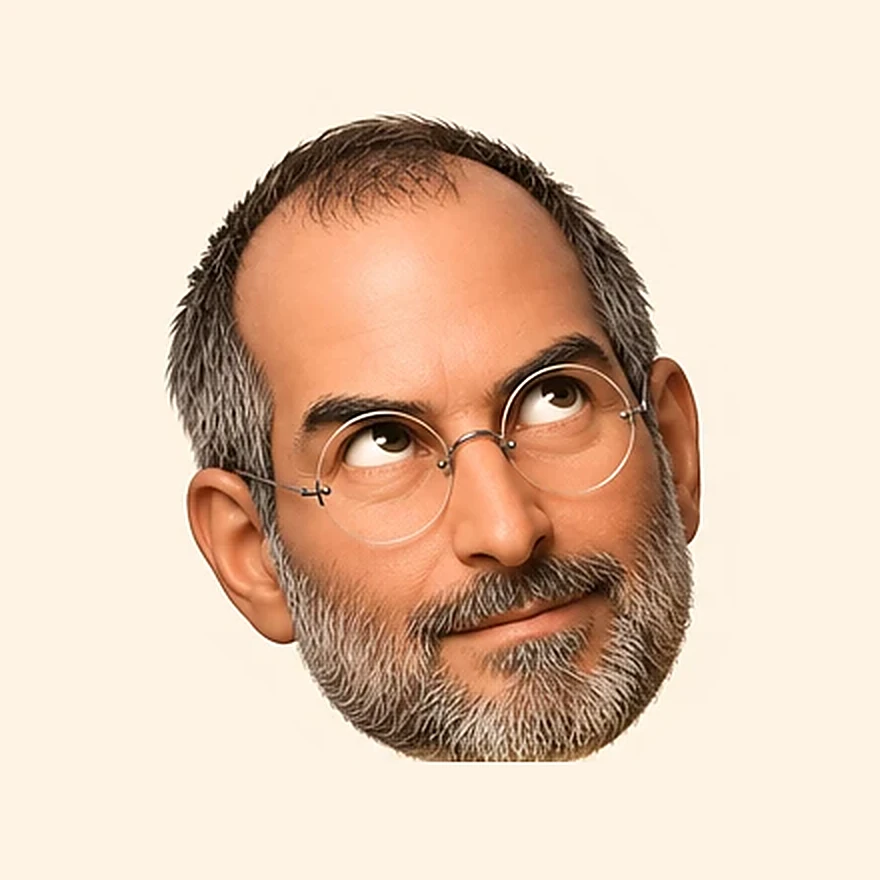
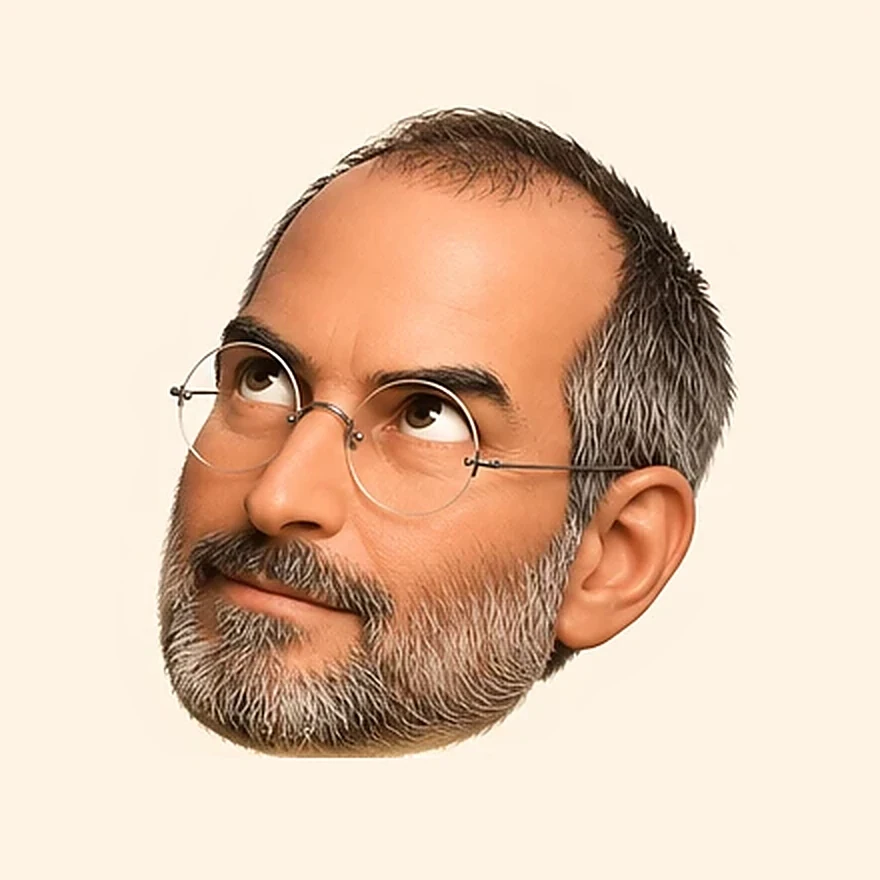
Fix up-left gaze frame by mirroring up-right
The reference sheet's 'Up Left' cell actually looks up and to the right, so
the cursor in the top-left corner made the head look the wrong way.

Claude-Session: https://claude.ai/code/session_01KRPUGBktJ8ZCvKHdnKXVnE

diff --git a/steve-gaze/scripts/prepare-frames.py b/steve-gaze/scripts/prepare-frames.py
@@ -82,5 +82,14 @@ for r, (y0, y1) in enumerate(YS):
                                      int(xs.max() + ox), int(ys.max() + oy)]}
         print(name, meta[NAMES[idx]])
 
+# The sheet's "01 Up Left" cell actually looks up and to the RIGHT (near-duplicate
+# of "03 Up Right"), so the true up-left frame is the up-right frame mirrored.
+# Frames are centred on the head centroid, so a mirror keeps the alignment.
+from PIL import ImageOps
+ur = Image.open(os.path.join(OUT, "03-up-right.webp"))
+ImageOps.mirror(ur).save(os.path.join(OUT, "01-up-left.webp"), quality=90, method=6)
+meta["up-left"] = {"file": "01-up-left.webp", "mirrored_from": "03-up-right.webp"}
+print("01-up-left.webp <- mirrored 03-up-right.webp")
+
 with open(os.path.join(os.path.dirname(__file__), "frames.json"), "w") as f:
     json.dump(meta, f, indent=2)
